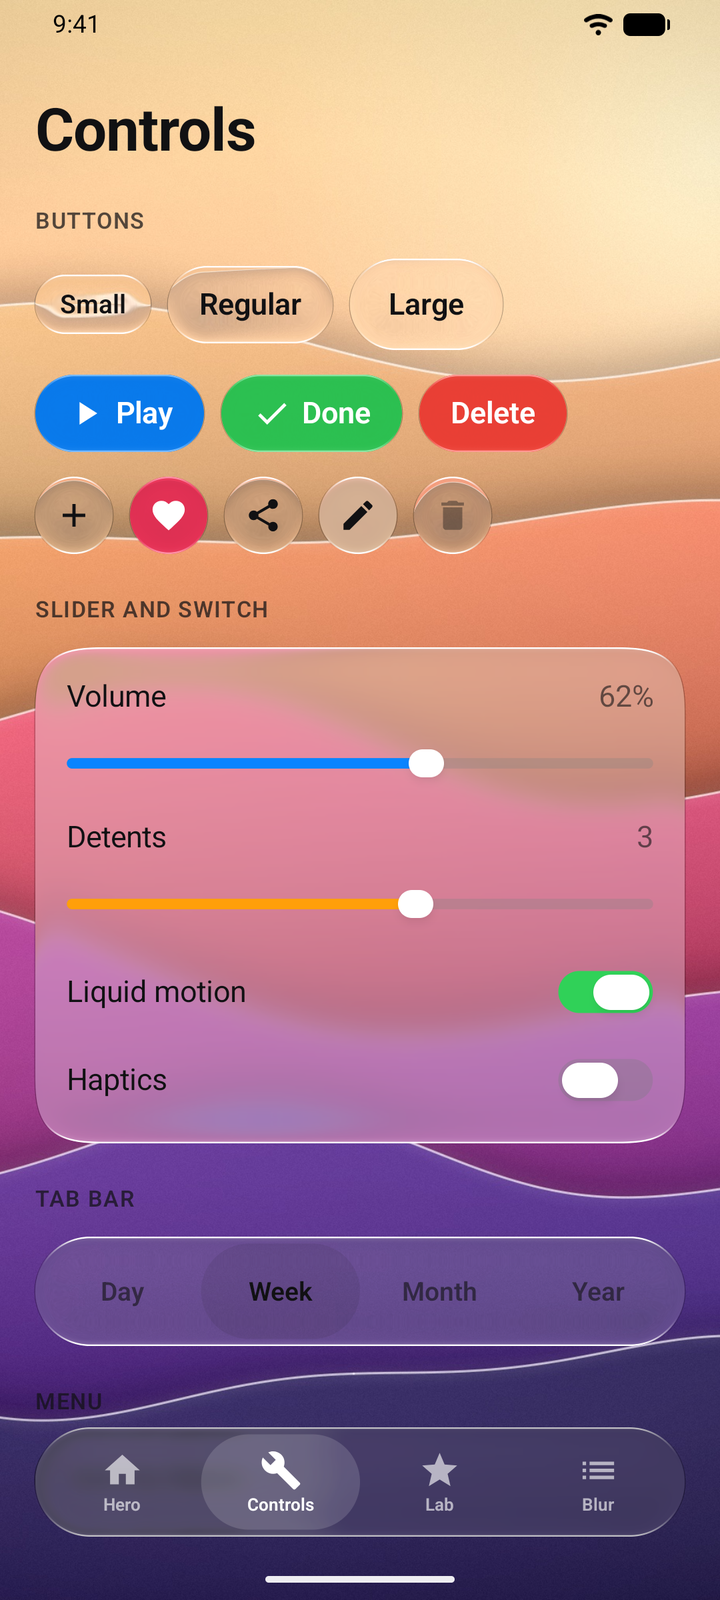
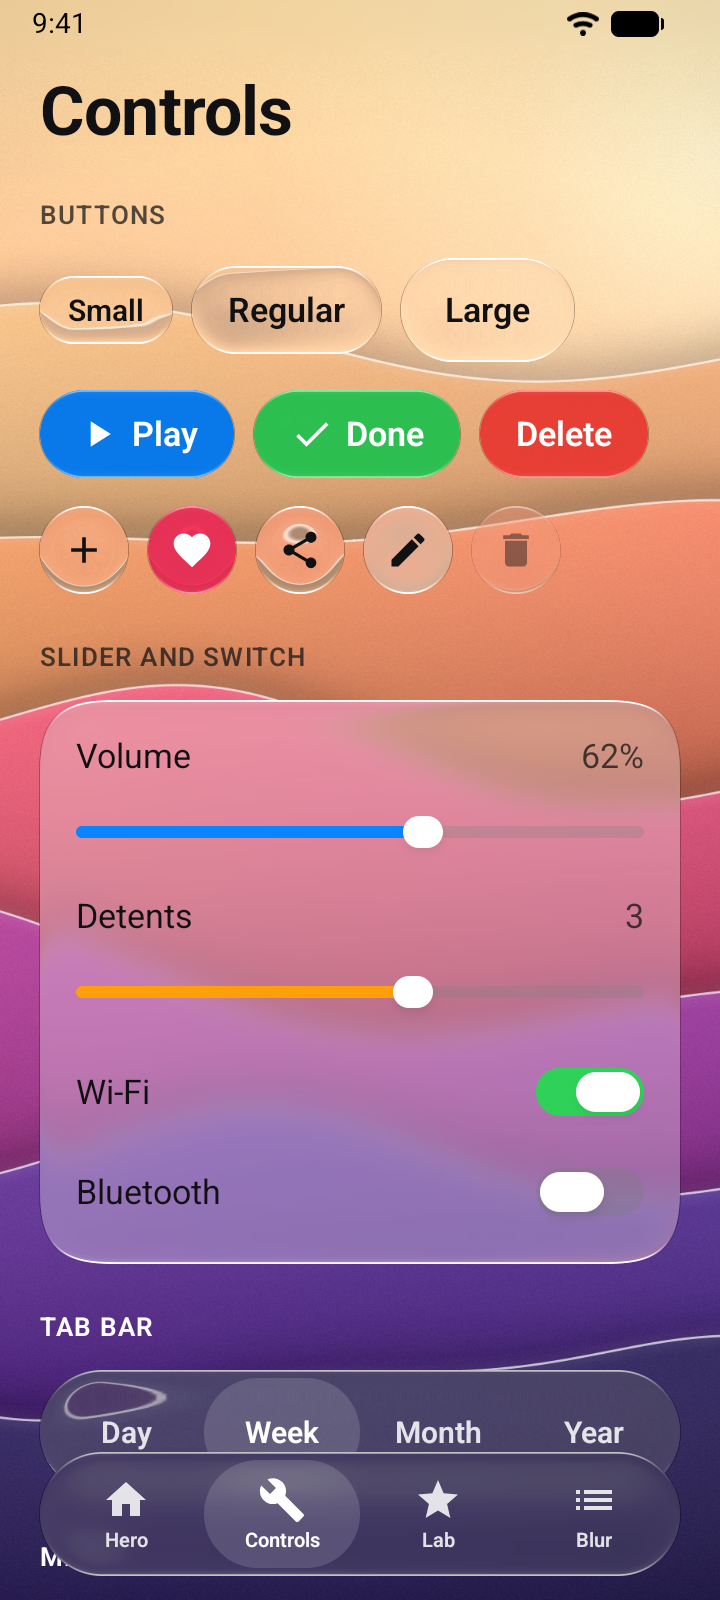
Android Studio: the Controls page scrolls away beneath the status bar (clipped, its wallpaper softened) instead of under the clock; the lab's segmented chips and tint swatches draw their pressed and focused states on their own capsule and circle; values read left to right in right-to-left layouts; t

diff --git a/platforms/android/studio/src/main/kotlin/io/github/rookasrudzianskas/liquidglass/studio/LabPage.kt b/platforms/android/studio/src/main/kotlin/io/github/rookasrudzianskas/liquidglass/studio/LabPage.kt
@@ -3,6 +3,9 @@ package io.github.rookasrudzianskas.liquidglass.studio
 import androidx.compose.foundation.background
 import androidx.compose.foundation.border
 import androidx.compose.foundation.gestures.detectDragGestures
+import androidx.compose.foundation.interaction.MutableInteractionSource
+import androidx.compose.foundation.interaction.collectIsFocusedAsState
+import androidx.compose.foundation.interaction.collectIsPressedAsState
 import androidx.compose.foundation.layout.Arrangement
 import androidx.compose.foundation.layout.Box
 import androidx.compose.foundation.layout.BoxScope
@@ -205,10 +208,21 @@ private fun <T> Segmented(options: List<Pair<String, T>>, selected: T, onSelect:
     ) {
         for ((name, value) in options) {
             val on = value == selected
+            val source = remember { MutableInteractionSource() }
+            val pressed by source.collectIsPressedAsState()
+            val focused by source.collectIsFocusedAsState()
+            val fill = when {
+                on -> StudioColors.Blue
+                pressed -> foreground.copy(alpha = 0.12f)
+                else -> Color.Transparent
+            }
             Box(
                 Modifier
-                    .background(if (on) StudioColors.Blue else Color.Transparent, CircleShape)
-                    .selectable(selected = on, role = Role.RadioButton) { onSelect(value) }
+                    // Pressed and focused states follow the chip's capsule (no rectangular default indication).
+                    .then(if (focused) Modifier.border(2.dp, FocusColor, CircleShape) else Modifier)
+                    .clip(CircleShape)
+                    .background(fill)
+                    .selectable(selected = on, interactionSource = source, indication = null, role = Role.RadioButton) { onSelect(value) }
                     .padding(horizontal = 14.dp, vertical = 6.dp),
             ) {
                 GlassText(name, style = StudioType.Caption, color = if (on) Color.White else foreground)
@@ -216,6 +230,9 @@ private fun <T> Segmented(options: List<Pair<String, T>>, selected: T, onSelect:
         }
     }
 }
+
+/** Keyboard focus ring of the lab's own choices, matching the library's controls. */
+private val FocusColor = StudioColors.Blue
 
 /** The outline of a segmented control: a capsule on one line, rounded when its options wrap. */
 private val SegmentedShape = RoundedCornerShape(18.dp)
@@ -226,7 +243,7 @@ private val SegmentedShape = RoundedCornerShape(18.dp)
 private fun LabValue(label: String, value: String) {
     FlowRow(Modifier.fillMaxWidth().clearAndSetSemantics {}, horizontalArrangement = Arrangement.SpaceBetween) {
         GlassText(label, style = StudioType.Label)
-        GlassText(value, style = StudioType.Label, color = LocalGlassContentColor.current.copy(alpha = ValueAlpha))
+        GlassText(value, style = StudioType.Value, color = LocalGlassContentColor.current.copy(alpha = ValueAlpha))
     }
 }
 
@@ -251,13 +268,22 @@ private fun TintChoice(selected: Int, onSelect: (Int) -> Unit) {
 @Composable
 private fun Swatch(name: String, color: Color, selected: Boolean, onClick: () -> Unit) {
     val foreground = LocalGlassContentColor.current
+    val source = remember { MutableInteractionSource() }
+    val pressed by source.collectIsPressedAsState()
+    val focused by source.collectIsFocusedAsState()
+    val ring = when {
+        focused -> FocusColor
+        selected -> foreground.copy(alpha = 0.9f)
+        else -> foreground.copy(alpha = if (pressed) 0.6f else 0.25f)
+    }
     Box(
         Modifier
             .size(26.dp)
-            .selectable(selected = selected, role = Role.RadioButton, onClick = onClick)
+            .clip(CircleShape)
+            .selectable(selected = selected, interactionSource = source, indication = null, role = Role.RadioButton, onClick = onClick)
             .semantics { contentDescription = "$name tint" }
-            .border(if (selected) 2.dp else 1.dp, foreground.copy(alpha = if (selected) 0.9f else 0.25f), CircleShape)
-            .padding(4.dp)
+            .border(if (selected || focused) 2.dp else 1.dp, ring, CircleShape)
+            .padding(if (pressed) 5.dp else 4.dp)
             .background(if (color == Color.Unspecified) foreground.copy(alpha = 0.12f) else color, CircleShape),
     )
 }

diff --git a/platforms/android/studio/src/main/kotlin/io/github/rookasrudzianskas/liquidglass/studio/ControlsPage.kt b/platforms/android/studio/src/main/kotlin/io/github/rookasrudzianskas/liquidglass/studio/ControlsPage.kt
@@ -8,6 +8,7 @@ import androidx.compose.foundation.layout.FlowRow
 import androidx.compose.foundation.layout.Row
 import androidx.compose.foundation.layout.Spacer
 import androidx.compose.foundation.layout.WindowInsets
+import androidx.compose.foundation.layout.asPaddingValues
 import androidx.compose.foundation.layout.fillMaxSize
 import androidx.compose.foundation.layout.fillMaxWidth
 import androidx.compose.foundation.layout.height
@@ -15,7 +16,7 @@ import androidx.compose.foundation.layout.navigationBars
 import androidx.compose.foundation.layout.padding
 import androidx.compose.foundation.layout.statusBars
 import androidx.compose.foundation.layout.windowInsetsBottomHeight
-import androidx.compose.foundation.layout.windowInsetsTopHeight
+import androidx.compose.foundation.layout.windowInsetsPadding
 import androidx.compose.foundation.rememberScrollState
 import androidx.compose.foundation.verticalScroll
 import androidx.compose.material.icons.Icons
@@ -38,6 +39,7 @@ import androidx.compose.runtime.saveable.rememberSaveable
 import androidx.compose.runtime.setValue
 import androidx.compose.ui.Alignment
 import androidx.compose.ui.Modifier
+import androidx.compose.ui.draw.clipToBounds
 import androidx.compose.ui.graphics.Color
 import androidx.compose.ui.semantics.clearAndSetSemantics
 import androidx.compose.ui.semantics.semantics
@@ -47,10 +49,12 @@ import io.github.rookasrudzianskas.liquidglass.GlassAppearance
 import io.github.rookasrudzianskas.liquidglass.GlassButton
 import io.github.rookasrudzianskas.liquidglass.GlassButtonSize
 import io.github.rookasrudzianskas.liquidglass.GlassDefaults
+import io.github.rookasrudzianskas.liquidglass.GlassEdge
 import io.github.rookasrudzianskas.liquidglass.GlassIcon
 import io.github.rookasrudzianskas.liquidglass.GlassMaterial
 import io.github.rookasrudzianskas.liquidglass.GlassMenu
 import io.github.rookasrudzianskas.liquidglass.GlassMenuItem
+import io.github.rookasrudzianskas.liquidglass.GlassProgressiveBlur
 import io.github.rookasrudzianskas.liquidglass.GlassShape
 import io.github.rookasrudzianskas.liquidglass.GlassSlider
 import io.github.rookasrudzianskas.liquidglass.GlassSurface
@@ -65,14 +69,19 @@ import kotlin.math.roundToInt
 @OptIn(ExperimentalLayoutApi::class)
 @Composable
 fun BoxScope.ControlsPage() {
+    // The status bar keeps the wallpaper, softened toward the top edge; the controls scroll away beneath its edge
+    // (clipped there, glass included), so the clock never sits on a button.
+    val statusBar = WindowInsets.statusBars.asPaddingValues().calculateTopPadding()
+    GlassProgressiveBlur(GlassEdge.Top, Modifier.align(Alignment.TopCenter), size = statusBar + 12.dp, blur = 14.dp)
     Column(
         Modifier
             .fillMaxSize()
+            .windowInsetsPadding(WindowInsets.statusBars)
+            .clipToBounds()
             .verticalScroll(rememberScrollState())
             .padding(horizontal = 20.dp),
         verticalArrangement = Arrangement.spacedBy(14.dp),
     ) {
-        Spacer(Modifier.windowInsetsTopHeight(WindowInsets.statusBars))
         GlassText("Controls", Modifier.padding(top = 12.dp), style = StudioType.Title)
 
         SectionLabel("Buttons")
@@ -169,7 +178,7 @@ private fun SectionLabel(text: String, alpha: Float = 0.72f) {
 private fun ValueRow(label: String, value: String) {
     FlowRow(Modifier.fillMaxWidth().padding(top = 4.dp).clearAndSetSemantics {}, horizontalArrangement = Arrangement.SpaceBetween) {
         GlassText(label, style = StudioType.Label)
-        GlassText(value, style = StudioType.Label, color = LocalGlassContentColor.current.copy(alpha = ValueAlpha))
+        GlassText(value, style = StudioType.Value, color = LocalGlassContentColor.current.copy(alpha = ValueAlpha))
     }
 }
 

diff --git a/platforms/android/studio/src/main/kotlin/io/github/rookasrudzianskas/liquidglass/studio/StudioApp.kt b/platforms/android/studio/src/main/kotlin/io/github/rookasrudzianskas/liquidglass/studio/StudioApp.kt
@@ -8,6 +8,7 @@ import androidx.compose.foundation.layout.fillMaxSize
 import androidx.compose.foundation.layout.fillMaxWidth
 import androidx.compose.foundation.layout.navigationBars
 import androidx.compose.foundation.layout.padding
+import androidx.compose.foundation.layout.widthIn
 import androidx.compose.foundation.layout.windowInsetsPadding
 import androidx.compose.material.icons.Icons
 import androidx.compose.material.icons.filled.Build
@@ -140,6 +141,8 @@ private fun BoxScope.StudioTabBar(page: Int, appearance: GlassAppearance?, onPag
             .align(Alignment.BottomCenter)
             .windowInsetsPadding(WindowInsets.navigationBars)
             .padding(start = 20.dp, end = 20.dp, bottom = 12.dp)
+            // In landscape and on tablets the bar keeps a phone's proportions instead of spanning the screen.
+            .widthIn(max = 560.dp)
             .fillMaxWidth(),
     )
 }

diff --git a/platforms/android/studio/src/main/kotlin/io/github/rookasrudzianskas/liquidglass/studio/StudioType.kt b/platforms/android/studio/src/main/kotlin/io/github/rookasrudzianskas/liquidglass/studio/StudioType.kt
@@ -2,6 +2,7 @@ package io.github.rookasrudzianskas.liquidglass.studio
 
 import androidx.compose.ui.text.TextStyle
 import androidx.compose.ui.text.font.FontWeight
+import androidx.compose.ui.text.style.TextDirection
 import androidx.compose.ui.unit.sp
 
 /** Studio typography: large titles, section labels and body text. */
@@ -12,4 +13,7 @@ object StudioType {
     val Body = TextStyle(fontSize = 15.sp, fontWeight = FontWeight.Normal, lineHeight = 21.sp)
     val Label = TextStyle(fontSize = 17.sp, fontWeight = FontWeight.Normal)
     val Caption = TextStyle(fontSize = 13.sp, fontWeight = FontWeight.Medium)
+
+    /** A measured value ("60 dp", "62%"): its direction follows its own text, so it reads the same in right-to-left layouts. */
+    val Value = Label.copy(textDirection = TextDirection.Content)
 }
